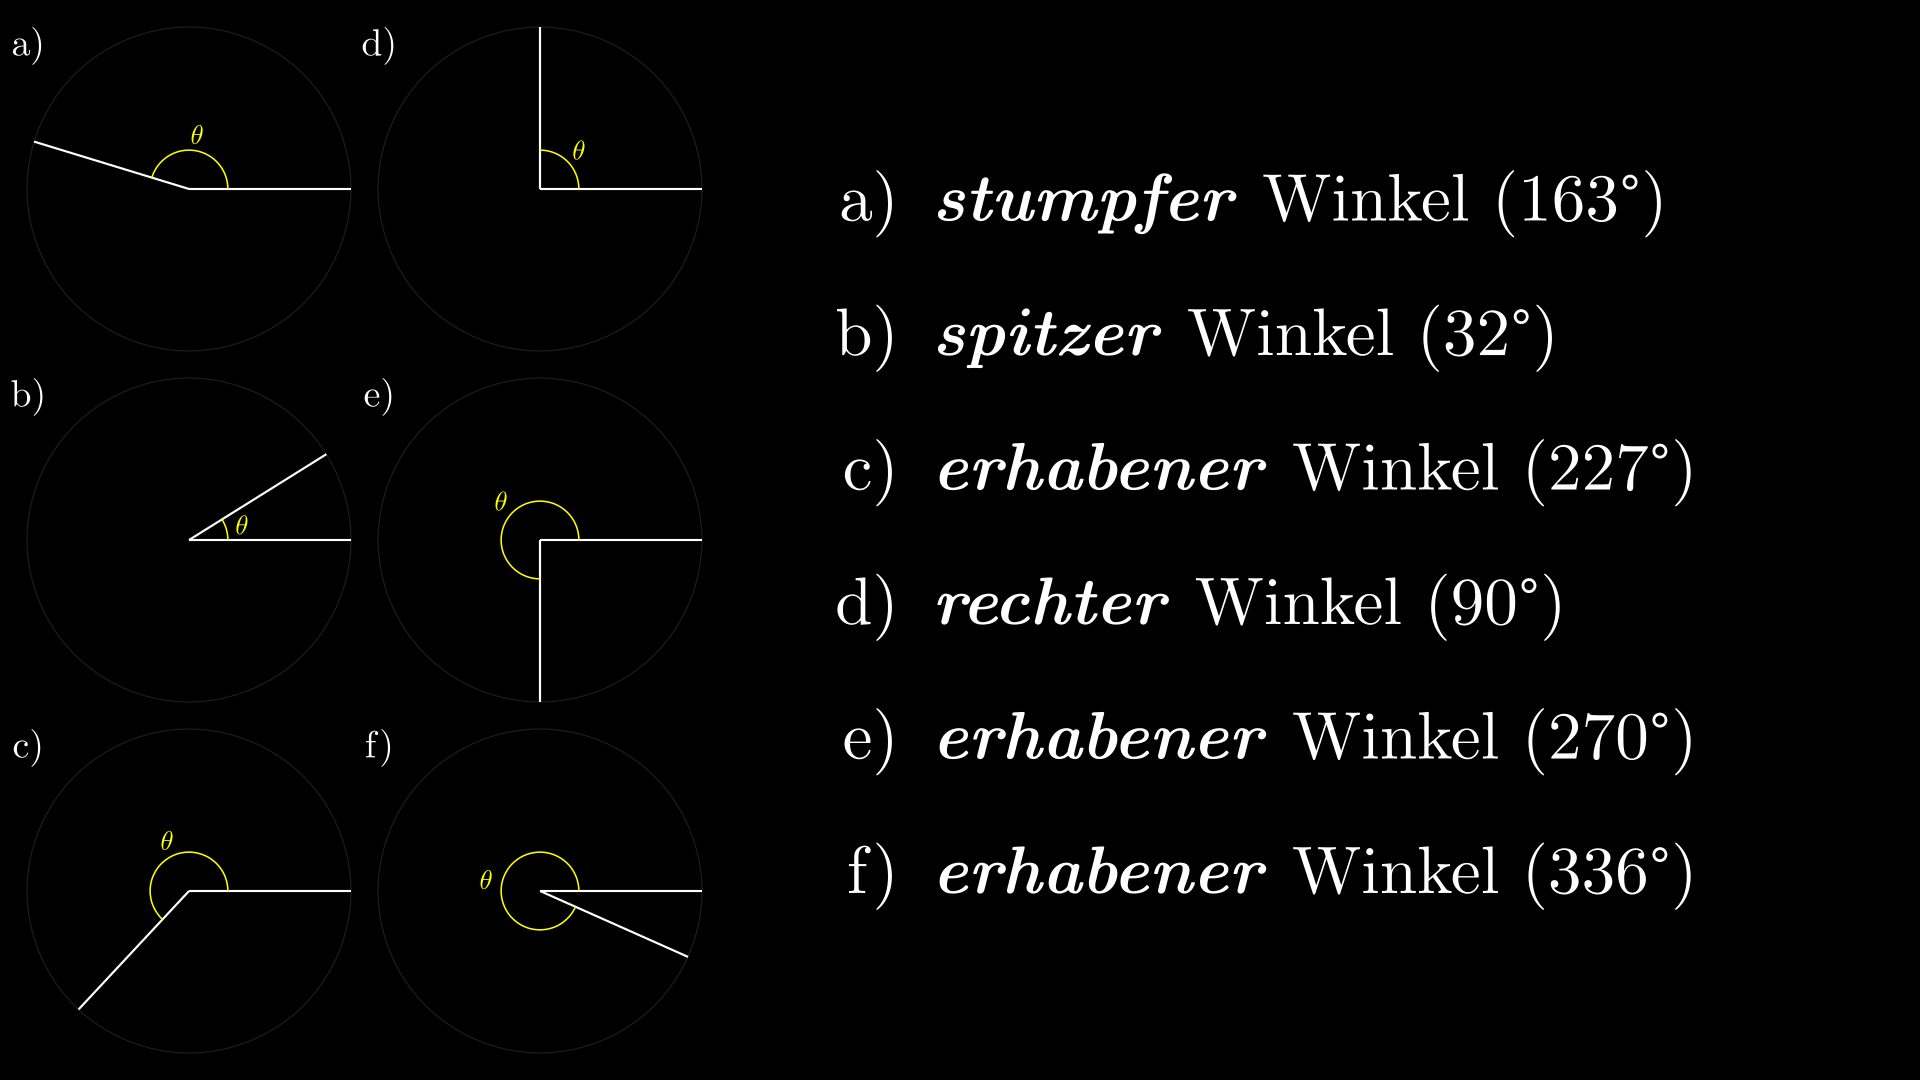
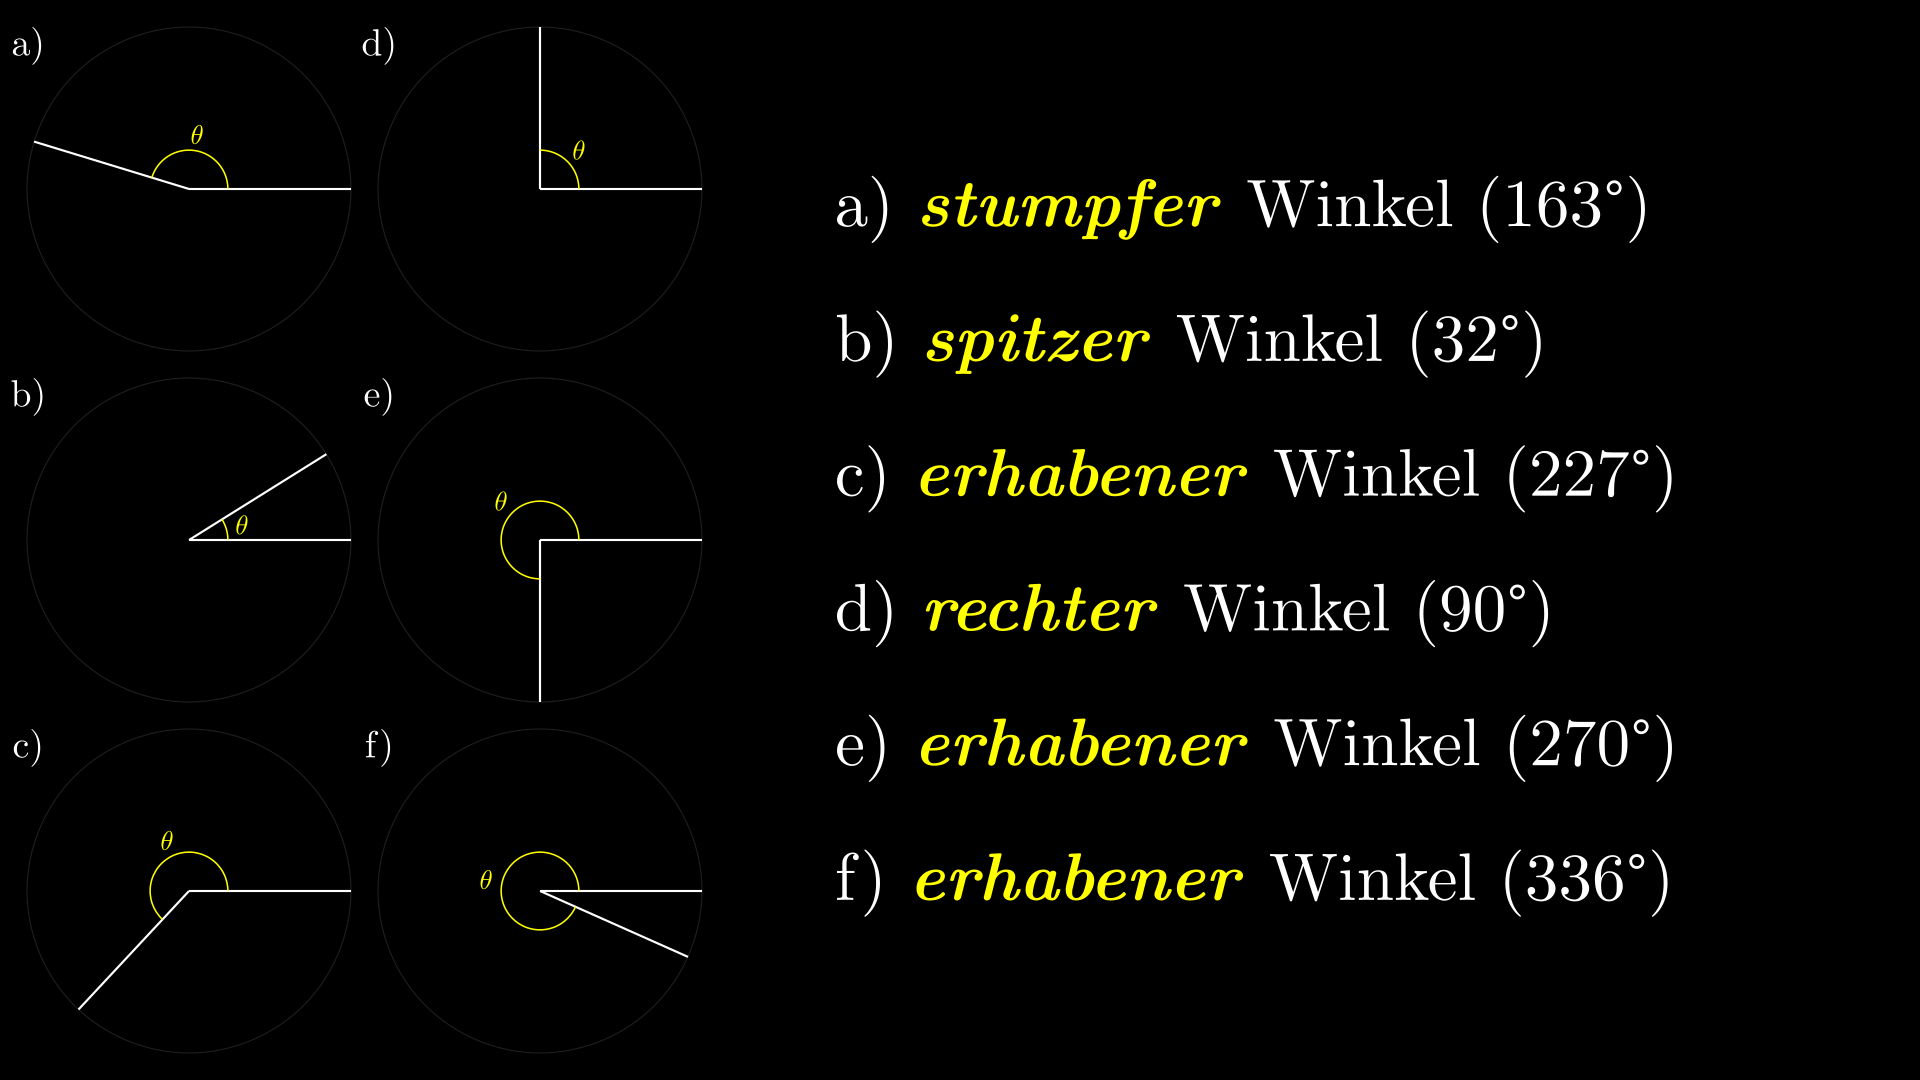
Update text color

diff --git a/angles.py b/angles.py
@@ -130,11 +130,12 @@ class CircleWithAngle(VGroup):
         return self
 
 class CreateAngles(Scene):
+    # ang_values = np.random.uniform(28.0, 360.0, 6)
+    ang_values = [163.0, 32.0, 227.0, 90.0, 270.0, 336.0]
+    itm = ["a)", "b)", "c)", "d)", "e)", "f)"]
+
     def construct(self):
         scale_fct = 0.4
-        # ang_values = np.random.uniform(28.0, 360.0, 6)
-        ang_values = [163.0, 32.0, 227.0, 90.0, 270.0, 336.0]
-        itm = ["a)", "b)", "c)", "d)", "e)", "f)"]
         cwa = [CircleWithAngle() for x in range(6)]
         tps = self.get_target_points(scale_fct, cwa[0])
         d = [Dot().shift(tps[i]) for i in range(6)]
@@ -175,8 +176,8 @@ class CreateAngles(Scene):
             self.add(ang_tex)
             # self.wait()
             self.play(
-                vt.animate.set_value(ang_values[i]*DEGREES),
-                run_time=4/360*ang_values[i],
+                vt.animate.set_value(self.ang_values[i]*DEGREES),
+                run_time=4/360*self.ang_values[i],
                 rate_func=linear
             )
             self.wait(1.5)
@@ -184,7 +185,7 @@ class CreateAngles(Scene):
             self.play(cwa[i].animate.scale(scale_fct))
             self.play(cwa[i].animate.move_to(d[i]))
 
-            item_tex = Tex(r"\item["+itm[i]+"]", font_size=27)
+            item_tex = Tex(r"\item["+self.itm[i]+"]", font_size=27)
             item_tex.next_to(
                 cwa[i],
                 buff=0.0,
@@ -195,51 +196,73 @@ class CreateAngles(Scene):
             self.add(item_tex)
             self.wait()
 
-        def get_ang_kind(ang: float) -> str:
-            str_a = r"\textbf{\textit{"
-
-            if ang > 0 and ang < 90:
-                return str_a + r"spitzer}}"
-            elif ang == 90:
-                return str_a + r"rechter}} "
-            elif ang > 90 and ang < 180:
-                return str_a + r"stumpfer}} "
-            elif ang == 180:
-                return str_a + r"gestreckter}} "
-            elif ang > 180 and ang < 360:
-                return str_a + r"erhabener}} "
-            elif ang == 360:
-                return str_a + r"voller}} "
-            elif ang == 0:
-                return str_a + r"Null}} "
-            else:
-                return str_a + r"unbestimmter}} "
-
-        def get_text_angles() -> str:
-            text = r"\begin{itemize}"
-            for i in range(6):
-                text = text+\
-                    r"\item["+\
-                    itm[i]+\
-                    r"] "+\
-                    get_ang_kind(ang_values[i])+\
-                    r" Winkel ($"+\
-                    str(int(ang_values[i]))+\
-                    r"\degree$)"
-            text = text + r"\end{itemize}"
-            return text
-
-        which_kind_tex = Tex(
-            get_text_angles(),
-            tex_template=template
+        tex_group = self.get_tex_angles()
+        which_kind_tex = VGroup(*tex_group)
+        which_kind_tex.arrange_in_grid(
+            cols=1, 
+            cell_alignment=LEFT,
+            buff=MED_LARGE_BUFF,
         )
         which_kind_tex.next_to(
             cwa[4],
-            direction=RIGHT, 
+            direction=RIGHT+UP, 
             buff=LARGE_BUFF,
-            index_of_submobject_to_align=0)
+            index_of_submobject_to_align=0,
+            # aligned_edge=cwa[4].get_right(),
+        )
         self.play(Write(which_kind_tex))
+        # self.add(index_labels(which_kind_tex[0]))
         self.wait()
+
+    def get_tex_angles(self) -> list[Tex]:
+        tex_group = []
+        for i in range(6):
+            tex_desc = Tex(
+                self.itm[i]+\
+                " "+\
+                self.get_ang_kind(self.ang_values[i])+\
+                r" Winkel ($"+\
+                str(int(self.ang_values[i]))+\
+                r"\degree$)",
+                tex_template=template
+            )
+            tex_desc[1].set_fill(color=YELLOW)
+            tex_group.append(tex_desc)
+
+        return tex_group
+
+        # text = r"\begin{itemize}"
+
+        # for i in range(6):
+        #     text = text+\
+        #         r"\item["+\
+        #         self.itm[i]+\
+        #         r"] "+\
+        #         self.get_ang_kind(self.ang_values[i])+\
+        #         r" Winkel ($"+\
+        #         str(int(self.ang_values[i]))+\
+        #         r"\degree$)"
+        # text = text + r"\end{itemize}"
+        # return text
+
+    def get_ang_kind(self, ang: float) -> str:
+        str_a = r"{{\textbf{\textit{"
+        if ang > 0 and ang < 90:
+            return str_a + r"spitzer}}}}"
+        elif ang == 90:
+            return str_a + r"rechter}}}}"
+        elif ang > 90 and ang < 180:
+            return str_a + r"stumpfer}}}}"
+        elif ang == 180:
+            return str_a + r"gestreckter}}}}"
+        elif ang > 180 and ang < 360:
+            return str_a + r"erhabener}}}}"
+        elif ang == 360:
+            return str_a + r"voller}}}}"
+        elif ang == 0:
+            return str_a + r"Null}}}}"
+        else:
+            return str_a + r"unbestimmter}}}}"
 
     def get_target_points(
         self, 
